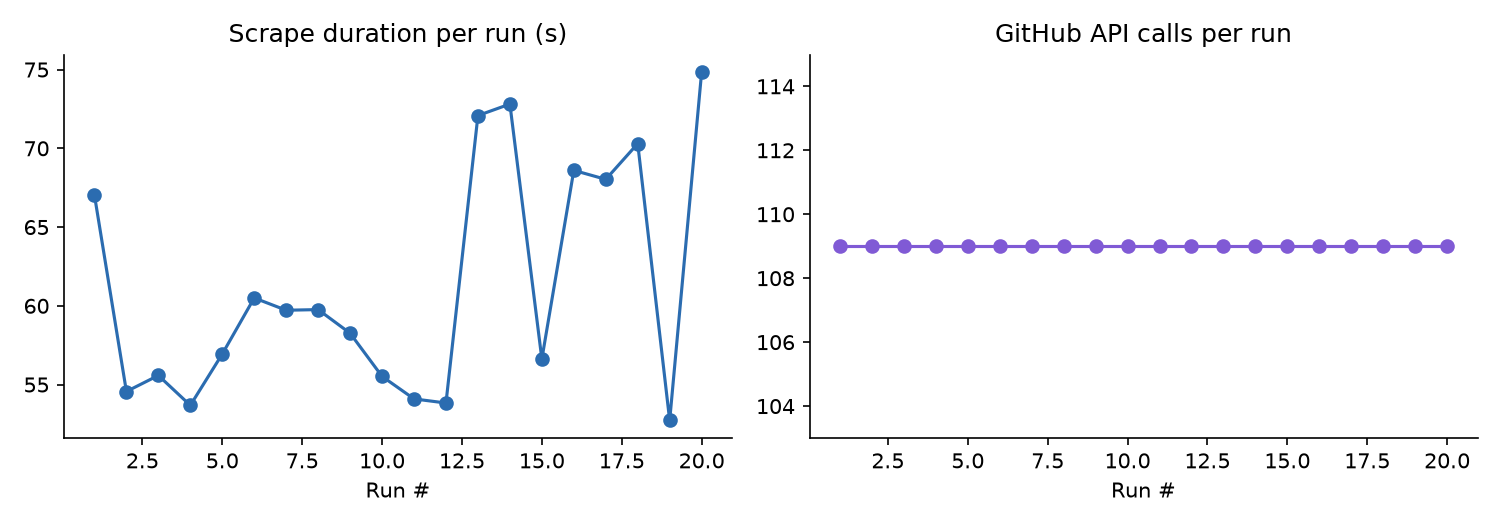
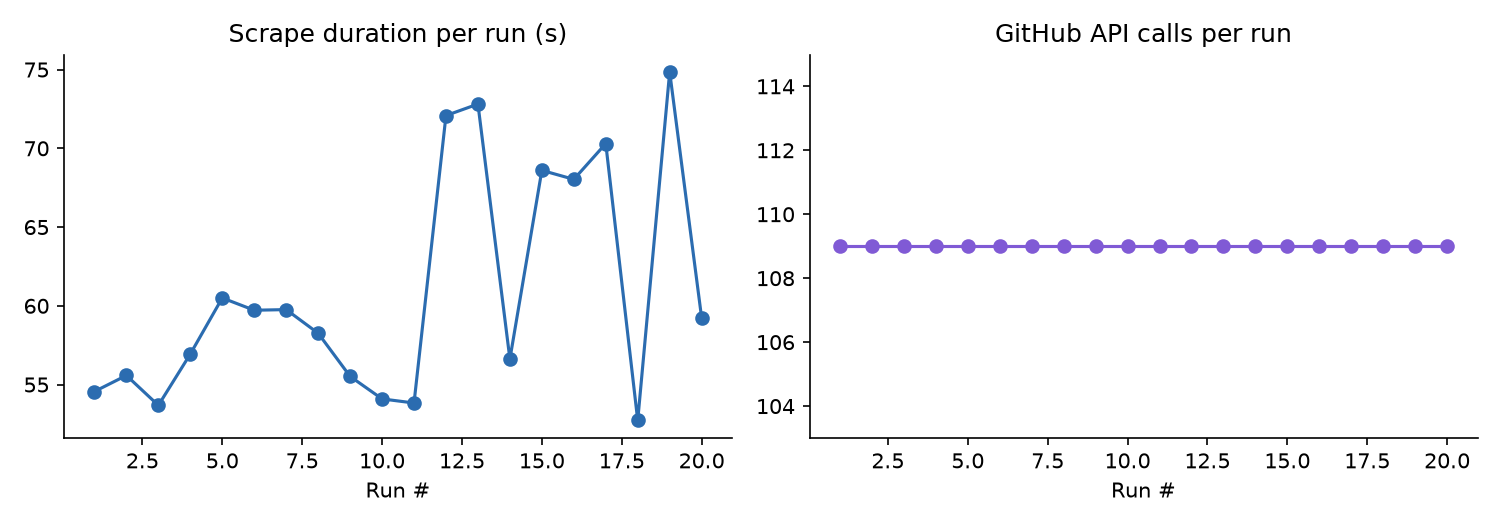
Weekly issue tracker refresh

diff --git a/README.md b/README.md
@@ -81,7 +81,7 @@ See [CONTRIBUTING.md](CONTRIBUTING.md) for the full contributor workflow — inc
 
 <!-- TRACKER:START -->
 
-_Last updated: 2026-08-08 18:59 UTC_
+_Last updated: 2026-08-08 19:29 UTC_
 
 _Tracking **18** upstream repos, **379** relevant open issues._
 
@@ -289,7 +289,7 @@ _Tracking **18** upstream repos, **379** relevant open issues._
 
 <!-- METRICS:START -->
 
-_Last run: 2026-08-08 18:57 UTC, took **74.8s**, **109** GitHub API calls, **4891/5000** rate limit remaining._
+_Last run: 2026-08-08 19:28 UTC, took **59.2s**, **109** GitHub API calls, **4782/5000** rate limit remaining._
 
 ![Scrape metrics trend](assets/metrics_trend.png)
 
